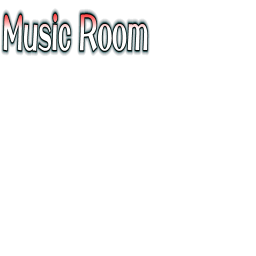
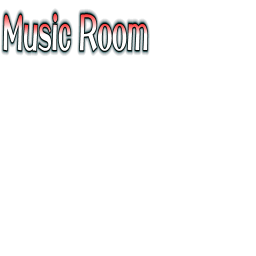
Refine Music Room and shot-selection title artwork

Changed region(s): [[0.375, 0.0938, 0.5938, 0.125], [0.0938, 0.0938, 0.2812, 0.1562]]

diff --git a/tools/prepare_shot_titles.py b/tools/prepare_shot_titles.py
@@ -1,0 +1,69 @@
+"""Generate the English shot type titles (select04) in the original text style.
+
+Usage:
+    python tools/prepare_shot_titles.py <popw12.ttf>
+
+DF Popcorn W12 is the font of the original menu text and is not part of this
+repository. Like the original titles, the letters are white with an outside
+glow in each shot type's color. The glow reaches a little further.
+"""
+from pathlib import Path
+import sys
+import numpy as np
+from PIL import Image, ImageDraw
+from scipy import ndimage
+
+sys.path.insert(0, str(Path(__file__).resolve().parent/'converter'))
+import menu_text_art as art
+
+TITLES = [('Spirit Amulet "Homing Amulet"', '"Fantasy Seal"'),
+          ('Dream Amulet "Persuasion Needle"', '"Evil-Sealing Circle"'),
+          ('Magic Amulet "Magic Missile"', '"Stardust Reverie"'),
+          ('Love Amulet "Illusion Laser"', '"Master Spark"')]
+BLOCK, WIDTH = 48, 256
+# Both lines use the largest size at which the longest line fits.
+MAX_SIZE, MARGIN = 17.0, 8
+LINE_TOPS = (5, 22)
+# The glow's alpha by distance in pixels outside the white letters, and each
+# title's glow color, as in the English patch's select04.
+GLOW_DISTANCE = np.array([0, 1, 2, 3, 4, 5])
+GLOW_ALPHA = np.array([255, 171, 67, 30, 8.5, 0])/255
+GLOW_COLORS = np.array([[57, 82, 140], [93, 28, 67], [0, 74, 16], [93, 28, 67]])
+# The glow reaches this much further than the patch's.
+GLOW_SPREAD = 1.3
+
+
+def style(glyph, color):
+    """White letters with an outside glow in color. Returns an RGBA image."""
+    height, width = glyph.shape[0]//art.SS, glyph.shape[1]//art.SS
+    fill = art.coverage(glyph)
+    distance = (ndimage.distance_transform_edt(~glyph)/art.SS)[art.SS//2::art.SS, art.SS//2::art.SS]/GLOW_SPREAD
+    glow = np.interp(distance, GLOW_DISTANCE, GLOW_ALPHA)*(1 - fill)
+    alpha = fill + glow
+    rgb = (255*fill[..., None] + color*glow[..., None])/np.maximum(alpha[..., None], 1e-4)
+    def channel(v): return np.clip(np.round(v), 0, 255).astype(np.uint8)
+    return Image.fromarray(np.dstack([channel(rgb), channel(alpha*255)]), 'RGBA')
+
+
+def prepare(resources, pop):
+    resources = Path(resources)
+    size = MAX_SIZE
+    while max(art.ink_width(line, pop, size)[0] for pair in TITLES for line in pair) > WIDTH - 2*MARGIN:
+        size -= .5
+    overlay = Image.new('RGBA', (256, 256))
+    mask = Image.new('L', overlay.size)
+    for index, lines in enumerate(TITLES):
+        top = index*BLOCK
+        glyph = np.zeros((BLOCK*art.SS, WIDTH*art.SS), bool)
+        for line, y in zip(lines, LINE_TOPS):
+            ink, left = art.ink_width(line, pop, size)
+            glyph |= art.glyphs(line, pop, size, (WIDTH - ink)/2 - left, y, WIDTH, BLOCK)
+        overlay.paste(style(glyph, GLOW_COLORS[index]), (0, top))
+        ImageDraw.Draw(mask).rectangle((0, top, WIDTH - 1, top + BLOCK - 1), fill=255)
+    overlay.save(resources/'select04.anm.bin.overlay.png')
+    mask.save(resources/'select04.anm.bin.mask.png')
+    print('size', size)
+
+
+if __name__ == '__main__':
+    prepare(Path(__file__).resolve().parent/'converter/resources', sys.argv[1])

diff --git a/tools/prepare_title_art.py b/tools/prepare_title_art.py
@@ -20,10 +20,14 @@ SIZE = 48
 TOP = 9.5
 OUTLINE = 1.25
 OUTLINE_COLOR = np.array([3, 7, 7])
-# Red keeps 255. Green and blue rise from this value at the top of the ink to
-# 255 at GRADIENT of the ink height, and the rest of the glyph is white.
+# Red keeps 255. Green and blue rise from this value at the top of each letter
+# to 255 at GRADIENT of that letter's height, and the rest is white. The kanji
+# in 恋々音樂館 all span the line, so the original measures from the line. Latin
+# lowercase starts lower, so each letter takes its own top and height.
 RED_GB = 51
 GRADIENT = .4
+# A dot this close above a stem counts as part of that letter.
+DOT_GAP = 8
 # Teal glow by distance in pixels outside the outline.
 GLOW_DISTANCE = np.array([0, .5, 1, 2, 3, 4, 4.6])
 GLOW_ALPHA = np.array([235, 215, 155, 76, 40, 14, 0]) / 255
@@ -59,11 +63,19 @@ def styled(glyph):
     outer = ndimage.binary_dilation(glyph, structure=x*x + y*y <= radius*radius)
     def down(mask): return mask.reshape(height, SS, width, SS).mean((1, 3))
     glyph_cover, outer_cover = down(glyph), down(outer)
-    rows = np.nonzero(glyph.any(1))[0]
-    top, bottom = rows.min()/SS, (rows.max() + 1)/SS
-    t = np.clip((np.arange(height) + .5 - top)/(GRADIENT*(bottom - top)), 0, 1)
-    gb = RED_GB + (255 - RED_GB)*t
-    fill = np.stack([np.full(height, 255.), gb, gb], -1)[:, None, :]
+    letters, count = ndimage.label(ndimage.binary_dilation(glyph, structure=np.ones((DOT_GAP*SS, 1))))
+    gb = np.full(glyph.shape, 255.)
+    y = np.arange(glyph.shape[0])[:, None] + .5
+    for index, area in enumerate(ndimage.find_objects(letters), 1):
+        letter = glyph & (letters == index)
+        rows = np.nonzero(letter.any(1))[0]
+        if not len(rows):
+            continue
+        top, bottom = rows.min(), rows.max() + 1
+        t = np.clip((y - top)/(GRADIENT*(bottom - top)), 0, 1)
+        gb = np.where(letter, RED_GB + (255 - RED_GB)*t, gb)
+    fill = np.stack([down(glyph*255.), down(glyph*gb), down(glyph*gb)], -1)
+    fill = fill/np.maximum(glyph_cover[..., None], 1e-4)
     distance = (ndimage.distance_transform_edt(~outer)/SS)[SS//2::SS, SS//2::SS]
     glow_alpha = np.interp(distance, GLOW_DISTANCE, GLOW_ALPHA)
     glow_rgb = np.stack([np.interp(distance, GLOW_DISTANCE, GLOW_RGB[:, c]) for c in range(3)], -1)
